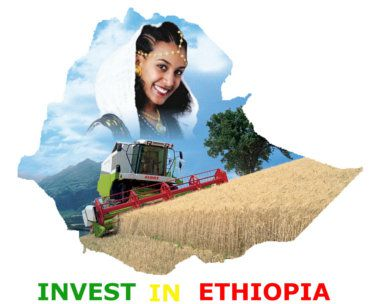
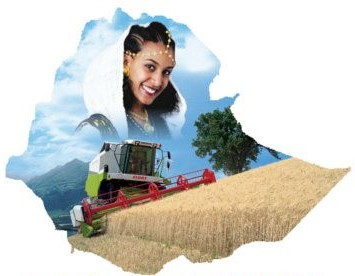
random number generator is used to select categories of the featured projects

diff --git a/.idea/index.html b/.idea/index.html
@@ -70,21 +70,40 @@
                         <script type="text/javascript" src="https://cdnjs.buymeacoffee.com/1.0.0/button.prod.min.js" data-name="bmc-button" data-slug="projectethio" data-color="#FFDD00" data-emoji=""  data-font="Cookie" data-text="Buy me a coffee" data-outline-color="#000" data-font-color="#000" data-coffee-color="#fff" ></script>
                     </li>
                 </ul>
-                <form name="searchForm" id="searchForm" method="get" class="form-inline my-2 my-lg-0 searchHide">
-                    <input id="keyword" class="form-control mr-sm-2" type="search" name="keyword"
-                           placeholder="Search keyword ..." aria-label="Search">
-                    <button id="mainSearch" class="btn btn-info mr-2 my-2 my-sm-0">Search</button>
-                </form>
-
             </div>
         </nav>
     </header>
-        <div class="fb-like" data-href="https://projectethio.com"
-             data-width="" data-layout="standard"
-             data-action="like" data-size="large"
-             data-share="true"></div>
-<img src="images/InvestInEthiopia.jpg" alt="Invest in Ethiopia">
+        <div class="row2">
+            <nav class="column leftHome" >
 
+            </nav>
+            <section>
+                <div class="column middleHome">
+                    <img src="images/InvestInEthiopia.jpg" alt="Invest in Ethiopia">
+                </div>
+            </section>
+            <aside>
+                <div class="column rightHome">
+                    <div class="fb-like" data-href="https://projectethio.com"
+                         data-width="" data-layout="standard"
+                         data-action="like" data-size="large"
+                         data-share="true">
+                    </div>
+                    <h2 class="moto"><span class="text-success">Invest</span>
+                        <span class="text-warning">in <span class="text-danger">ethiopia</span></span></h2>
+                    <form name="searchForm" id="searchForm" method="get" class="form-inline my-2 my-lg-0 searchHome">
+                        <input id="keyword" class="form-control mr-sm-2" type="search" name="keyword"
+                               placeholder="Ideas e.g. coffee ..." aria-label="Search" required>
+                        <button id="mainSearch" class="btn btn-info mr-2 my-2 my-sm-0">Search</button>
+                    </form>
+
+                </div>
+            </aside>
+        </div>
+        <h3 class="featuredTitle">Featured posts</h3>
+        <div class="featured">
+            <ul class="featured"></ul>
+        </div>
     <footer class="row3 footer-copyright text-center ">
             <span>&copy; 2020 <a target="_blank" rel="noopener noreferrer"
                    href="http://www.projectethio.com/">www.projectethio.com</a>

diff --git a/.idea/index.js b/.idea/index.js
@@ -3,8 +3,13 @@ document.getElementById("technicalError").style.display = "none";
 const catagoryUrl = "http://localhost:8080/catagories";
 const searchUrl = "http://localhost:8080/search?keyword=";
 const textSearchButton = document.getElementById("mainSearch");
+const productUrl = "http://localhost:8080/products/";
+
+var id = Math.floor((Math.random() * 2) + 1);
+var urlProducts = catagoryUrl.concat("/").concat(id.toString());
 
 readCatagories()
+readProductsWithUrl(urlProducts)
 
 async function readCatagories() {
     try {
@@ -12,20 +17,6 @@ async function readCatagories() {
         if (response.ok) {
             const catagories = await response.json();
             enterDetailsOf(catagories);
-        } else {
-            technicalError();
-        }
-    } catch {
-        technicalError();
-    }
-}
-
-async function readProductsWithUrl(urlProducts,catagory) {
-    try {
-        const response = await fetch(urlProducts);
-        if (response.ok) {
-            const productList = await response.json();
-            DetailsOf(productList,catagory);
         } else {
             technicalError();
         }
@@ -63,4 +54,45 @@ document.getElementById("mainSearch").onclick=function (){
     var keyword = document.getElementById("keyword").value;
     document.searchForm.action = "search.html";
     sessionStorage.setItem('keyword', keyword);
+}
+
+// making a least of featured projects
+async function readProductsWithUrl(urlProducts) {
+    try {
+        const response = await fetch(urlProducts);
+        if (response.ok) {
+            const productList = await response.json();
+            DetailsOf(productList);
+        } else {
+            technicalError();
+        }
+    } catch {
+        technicalError();
+    }
+}
+// make list of projects under a catagory
+function DetailsOf(productList) {
+    var ul = document.getElementsByClassName("featured")[0].getElementsByTagName("ul")[0];
+    while (ul.lastChild !== null) { ul.lastChild.remove(); }
+    for (const product of productList._embedded.productIdNameList) {
+        const li = makeLiForProduct(product.name, product.id);
+        li.dataset.category = product.catagory;
+        ul.appendChild(li);
+    }
+}
+// make a list of projects
+function makeLiForProduct(name, id) {
+    var Url = productUrl.concat(id.toString());
+    const li = document.createElement("li");
+    const hyperlink = document.createElement("a");
+    hyperlink.innerText = name;
+    hyperlink.href = "ideas.html";
+    hyperlink.dataset.url = Url;
+    hyperlink.dataset.id = id;
+    hyperlink.onclick = function () {
+        sessionStorage.setItem("projectId",this.dataset.id)
+    };
+    li.appendChild(hyperlink);
+
+    return li;
 }

diff --git a/.idea/ideas.js b/.idea/ideas.js
@@ -5,6 +5,14 @@ const productUrl = "http://localhost:8080/products/";
 
 var catagoryUrlkey = sessionStorage.getItem("catagoryUrl");
 var catagoryName =sessionStorage.getItem("catagoryName");
+var id =sessionStorage.getItem("projectId");
+var index = 1; // counting for display of the first project idea
+
+if (id!=null){
+    var urlProduct = productUrl.concat(id.toString());
+    readProductDetailWithUrl(urlProduct)
+    index=id;
+}
 
 readProductsWithUrl(catagoryUrlkey,catagoryName)
 readCatagories()
@@ -24,7 +32,6 @@ async function readProductsWithUrl(urlProducts,catagory) {
 }
 // make list of projects under a catagory
 function DetailsOf(productList,catagory) {
-    var index = 1; // counting for display of the first project idea
     var h4 = document.getElementsByClassName("left")[0].getElementsByTagName("h4")[0];;
     h4.innerText=catagory;
     h4.classList="h4";
@@ -170,7 +177,6 @@ function makeHyperlinkWith(name, url) {
     hyperlink.onclick = function () {
         sessionStorage.setItem("catagoryUrl",this.dataset.url)
         sessionStorage.setItem("catagoryName",this.innerText)
-        // readProductsWithUrl(this.dataset.url,name);
     };
     return hyperlink;
 }

diff --git a/.idea/ideas.css b/.idea/ideas.css
@@ -170,11 +170,42 @@ dd, dt {
     overflow-y:auto;
 }
 img{
-    width:500px;
-    margin-left: 250px;
+    width:available;
+    float: left;
 }
 
 .fb-like{
-    margin-left: 600px;
-    margin-top: 10px;
+    margin-left: 100px;
+    margin-top: 25px;
+}
+
+.leftHome {
+    width: 0%;
+    background-color: snow;
+    height: 100%;
+}
+.rightHome{
+    width: 50%;
+    background-color: snow;
+    height: 100%;
+}
+.middleHome {
+    text-align: justify;
+    width: 40%;
+    background-color: snow;
+    padding: 10px;
+}
+.searchHome {
+padding-top: 20px;
+    padding-left: 100px;
+}
+.moto{
+    padding-top: 50px;
+    padding-left: 100px;
+}
+.featured{
+    padding-left: 20px;
+}
+.featuredTitle{
+    margin-left: 30px;
 }

diff --git a/.idea/search.html b/.idea/search.html
@@ -65,7 +65,7 @@
                 </ul>
                 <form name="searchForm" id="searchForm" method="get" class="form-inline my-2 my-lg-0 searchHide">
                     <input id="keyword" class="form-control mr-sm-2" type="search" name="keyword"
-                           placeholder="Search keyword ..." aria-label="Search">
+                           placeholder="Search keyword ..." aria-label="Search" required>
                     <button id="mainSearch" class="btn btn-info mr-2 my-2 my-sm-0">Search</button>
                 </form>
                 <!--<div style="display:block;">

diff --git a/.idea/about.html b/.idea/about.html
@@ -57,7 +57,7 @@
                 </ul>
                 <form name="searchForm" id="searchForm" method="get" class="form-inline my-4 my-lg-0 searchHide">
                     <input id="keyword" class="form-control mr-sm-2" type="search" name="keyword"
-                           placeholder="Search keyword ..." aria-label="Search">
+                           placeholder="Search keyword ..." aria-label="Search" required>
                     <button id="mainSearch" class="btn btn-info mr-2 my-2 my-sm-0">Search</button>
                 </form>
             </div>

diff --git a/.idea/ideas.html b/.idea/ideas.html
@@ -58,7 +58,7 @@
             </div>
             <form  name="searchForm" id="searchForm" method="get" class="form-inline my-2 my-lg-0 searchHide">
                 <input id="keyword" class="form-control mr-sm-2" type="search" name="keyword"
-                       placeholder="Search keyword ..." aria-label="Search">
+                       placeholder="Search keyword ..." aria-label="Search" required>
                 <button id="mainSearch" class="btn btn-info mr-2 my-2 my-sm-0">Search</button>
             </form>
         </nav>
